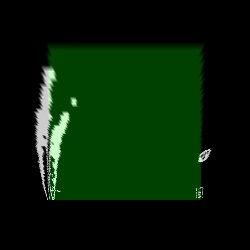
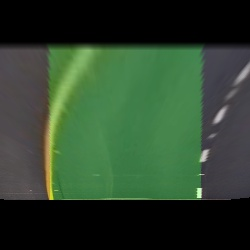
Correct lane markings.

diff --git a/find_lanes.py b/find_lanes.py
@@ -231,7 +231,7 @@ def hough_lines(img, rho, theta, threshold, min_line_len, max_line_gap):
     return poly, line_img
 
 
-def draw_lines_on_image(image, img_dir, img_suffix, img_format, is_rgb_lines=False):
+def draw_lines_on_image(orig_image, image, img_dir, img_suffix, img_format, is_rgb_lines=False):
     ## Copy-paste from quiz.
     gray = image # cv2.cvtColor(image, cv2.COLOR_RGB2GRAY)
    
@@ -289,7 +289,7 @@ def draw_lines_on_image(image, img_dir, img_suffix, img_format, is_rgb_lines=Fal
         line_image = cv2.cvtColor(line_image, cv2.COLOR_RGB2GRAY)
 
     # Draw the lines on the edge image
-    lines_edges = weighted_img(line_image, image, 0.8,  1, 0) 
+    lines_edges = weighted_img(line_image, orig_image, 0.8,  1, 0) 
 
     #lines_edges = weighted_img(color_edges, image, 0.8,  1, 0) 
     
@@ -555,12 +555,16 @@ def draw_lines_on_images(img_dir, img_prefix, img_format):
         write_name = img_dir + '/mag_thresh_' + img_suffix
         print("New image: %s" %write_name)
         cv2.imwrite(write_name, mag_thresh_s)
+
+
+
+        
         ##
 
 
         #ret_poly, ret_img = draw_lines_on_image(img, img_dir, img_suffix, img_format)
         color_edges = np.dstack((mag_thresh_s, mag_thresh_s, mag_thresh_s)) 
-        ret_poly, ret_img = draw_lines_on_image(color_edges, img_dir, img_suffix, img_format)
+        ret_poly, ret_img = draw_lines_on_image(img, color_edges, img_dir, img_suffix, img_format)
         
         imgp[:,:2] = np.array([ret_poly]).flatten().reshape(4, 2)
         print ("Imgp: %s" %str(imgp))
